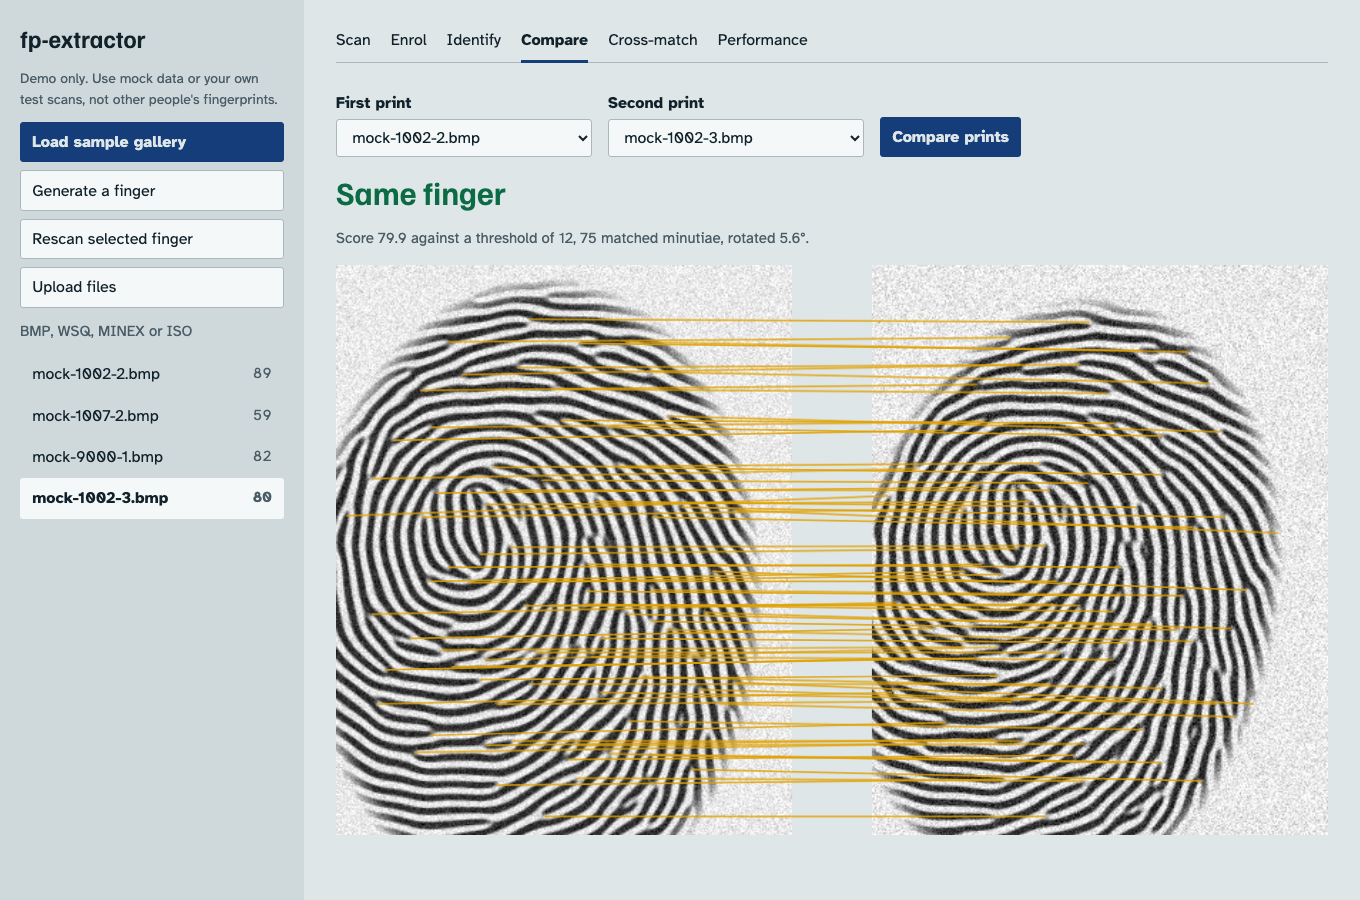
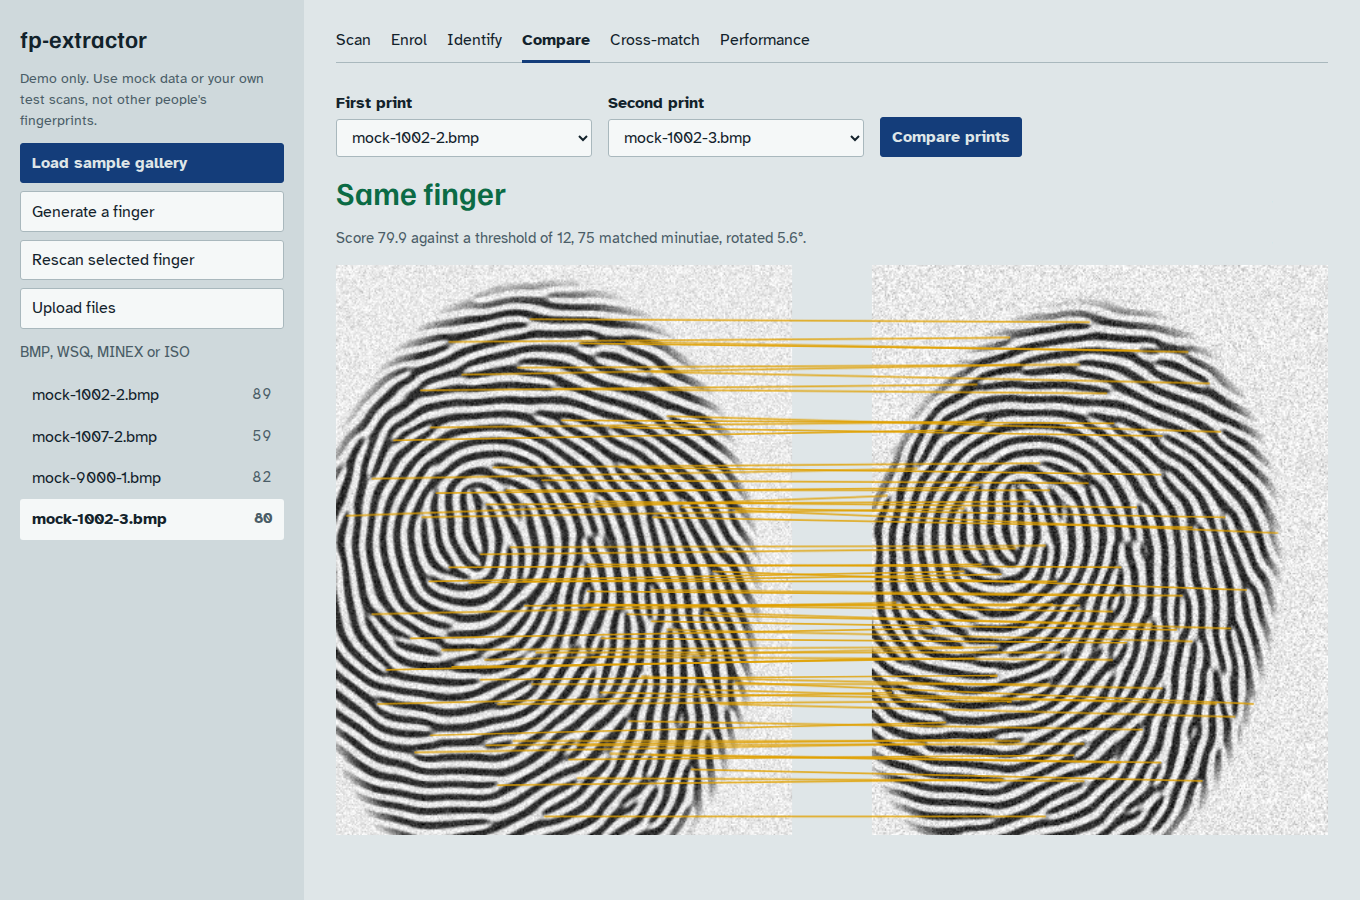
fix(web): per-OS screenshot baselines and legend for other minutiae
The e2e baselines were not updated with the last style change, and one
set cannot match both macOS and Linux font rendering (3 % apart, the
tolerance is 2 %). Baselines are now e2e/snapshots/<name>-<platform>.png;
Linux baselines added. The scan legend now explains the navy markers
(minutiae of type other). README screenshots regenerated.

diff --git a/apps/web/src/screens.tsx b/apps/web/src/screens.tsx
@@ -1,7 +1,7 @@
 import { useEffect, useState } from "react";
 import { api, downloadBase64 } from "./api";
 import type { CompareResult, CrossMatch, IdentifyResult, Stats } from "./api";
-import { heat } from "./geometry";
+import { heat, minutiaClass } from "./geometry";
 import { ComparePlates, Plate } from "./Plates";
 import benchmarks from "./benchmarks.json";
 import { estimate, GALLERIES } from "./capacity";
@@ -74,6 +74,9 @@ export function ScanScreen({ selected }: ScreenProps) {
         <dl className="legend">
           <div><dt><i className="key ending" /></dt><dd>Ridge ending</dd></div>
           <div><dt><i className="key bifurcation" /></dt><dd>Bifurcation</dd></div>
+          {ins.minutiae.some((m) => minutiaClass(m.type) === "other") && (
+            <div><dt><i className="key other" /></dt><dd>Other</dd></div>
+          )}
         </dl>
         <div className="row">
           <button onClick={() => downloadBase64(`${stem}.ansi`, ins.template_ansi)}>Download MINEX</button>

diff --git a/apps/web/src/styles.css b/apps/web/src/styles.css
@@ -92,6 +92,7 @@ nav button[aria-current="page"] { border-bottom-color: var(--prussian); font-wei
 .key { display: block; width: 12px; height: 12px; border: 2px solid; }
 .key.ending { border-color: #c4144f; border-radius: 50%; }
 .key.bifurcation { border-color: #00746b; }
+.key.other { border-color: #143d7a; border-radius: 50%; }
 .form-screen { display: grid; gap: 1rem; max-width: 38rem; justify-items: start; }
 .form-screen.wide { max-width: none; }
 .form-screen p { margin: 0; }

diff --git a/apps/web/playwright.config.ts b/apps/web/playwright.config.ts
@@ -11,7 +11,7 @@ export default defineConfig({
   testDir: "e2e",
   timeout: 120_000,
   workers: 1,
-  snapshotPathTemplate: "e2e/snapshots/{arg}{ext}",
+  snapshotPathTemplate: "e2e/snapshots/{arg}-{platform}{ext}", // fonts render differently per OS
   expect: { toHaveScreenshot: { maxDiffPixelRatio: 0.02, animations: "disabled" } },
   use: { baseURL: "http://127.0.0.1:8099", viewport: { width: 1360, height: 900 }, colorScheme: "light" },
   webServer: {
